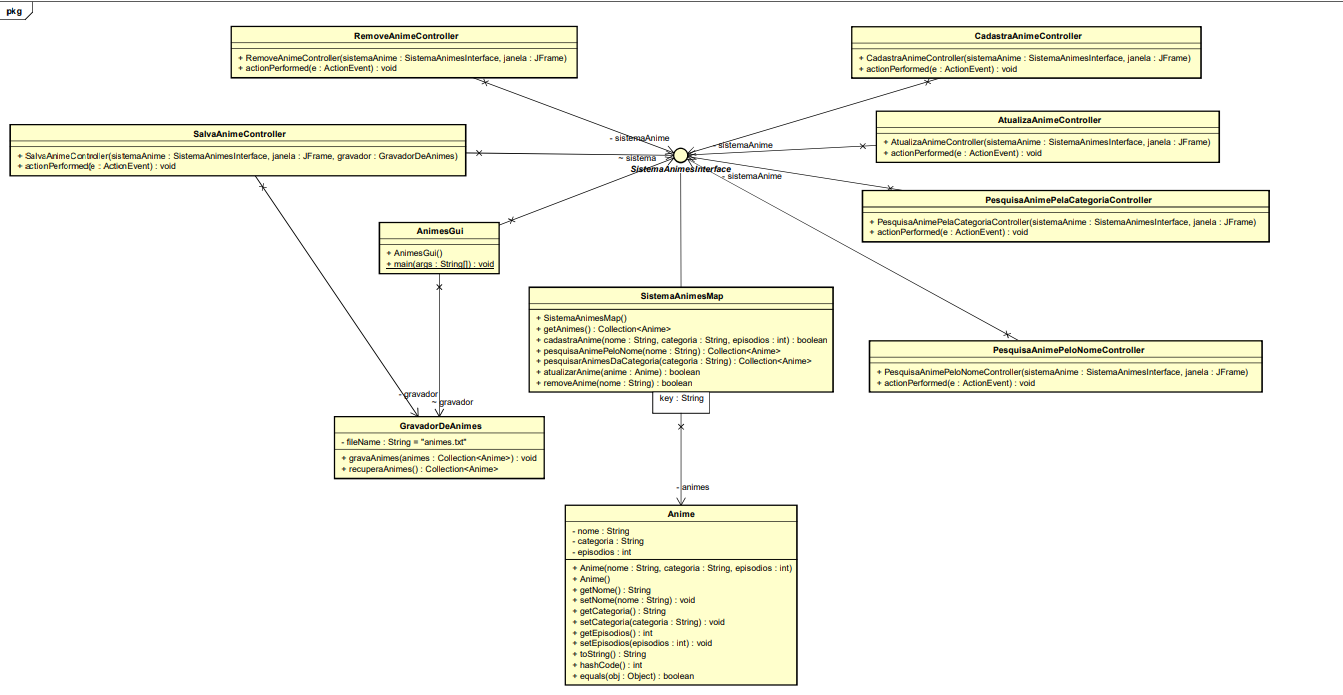
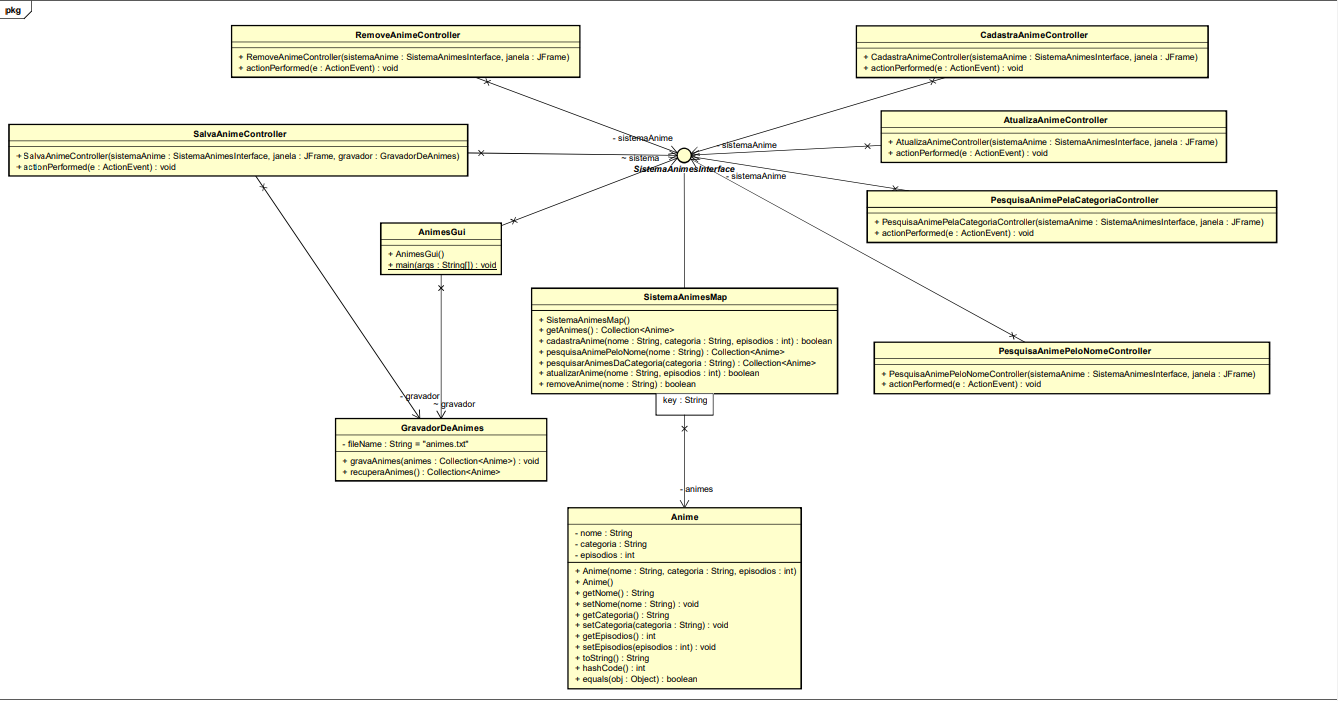
att

diff --git a/src/main/java/br/ufpb/anime/SistemaAnimesMap.java b/src/main/java/br/ufpb/anime/SistemaAnimesMap.java
@@ -51,17 +51,18 @@ public class SistemaAnimesMap implements SistemaAnimesInterface{
     }
 
     @Override
-    public boolean atualizarAnime (Anime anime){
-        String nome = anime.getNome();
-        String categoria = anime.getCategoria();
-        int episodios = anime.getEpisodios();
-        
-        anime.setEpisodios(episodios);
-
-        if (nome.isEmpty() && categoria.isEmpty() && episodios == 0) {
+    public boolean atualizarAnime (String nome, int episodios) {
+        Anime a = this.animes.get(nome);
+        if(!animes.containsKey(nome)) {
             return false;
+        } else {
+            if (nome.isEmpty() || episodios == 0) {
+                return false;
+            } else {
+                a.setEpisodios(episodios);
+                return true;
+            }
         }
-        return true;
     }
 
     @Override

diff --git a/src/main/java/br/ufpb/anime/AtualizaAnimeController.java b/src/main/java/br/ufpb/anime/AtualizaAnimeController.java
@@ -18,10 +18,8 @@ public class AtualizaAnimeController implements ActionListener{
     @Override
     public void actionPerformed(ActionEvent e){
         String nome = JOptionPane.showInputDialog(janelaPrincipal, "Qual o nome do anime: ").toUpperCase();
-        String categoria = JOptionPane.showInputDialog(janelaPrincipal, "Qual a categoria do anime: ").toUpperCase();
         int episodios = Integer.parseInt(JOptionPane.showInputDialog(janelaPrincipal, "Qual a nova quantidade de episodios: "));
-        boolean atualizou = sistemaAnime.atualizarAnime(new Anime(nome, categoria, episodios));
-
+        boolean atualizou = sistemaAnime.atualizarAnime(nome, episodios);
         if(atualizou){
             JOptionPane.showMessageDialog(janelaPrincipal, "Anime atualizou com sucesso");
         } else{

diff --git a/src/main/java/br/ufpb/anime/AnimesGui.java b/src/main/java/br/ufpb/anime/AnimesGui.java
@@ -85,6 +85,10 @@ public class AnimesGui extends JFrame {
         menuOperacoes.add(menuCadastrarAnime);
         menuCadastrarAnime.addActionListener(new CadastraAnimeController(sistema, this));
 
+        JMenuItem menuAtualizarAnime = new JMenuItem("Atualizar Anime");
+        menuOperacoes.add(menuAtualizarAnime);
+        menuAtualizarAnime.addActionListener(new AtualizaAnimeController(sistema, this));
+
         JMenuItem menuPesquisarAnimePorNome = new JMenuItem("Pesquisar Anime por Nome");
         menuOperacoes.add(menuPesquisarAnimePorNome);
         menuPesquisarAnimePorNome.addActionListener(new PesquisaAnimePeloNomeController(sistema, this));

diff --git a/src/main/java/br/ufpb/anime/SistemaAnimesInterface.java b/src/main/java/br/ufpb/anime/SistemaAnimesInterface.java
@@ -10,7 +10,7 @@ public interface SistemaAnimesInterface {
 
     public Collection<Anime> pesquisarAnimesDaCategoria(String categoria);
 
-    public boolean atualizarAnime(Anime anime);
+    public boolean atualizarAnime(String nome, int episodios);
     
     public boolean removeAnime(String nome);
 
